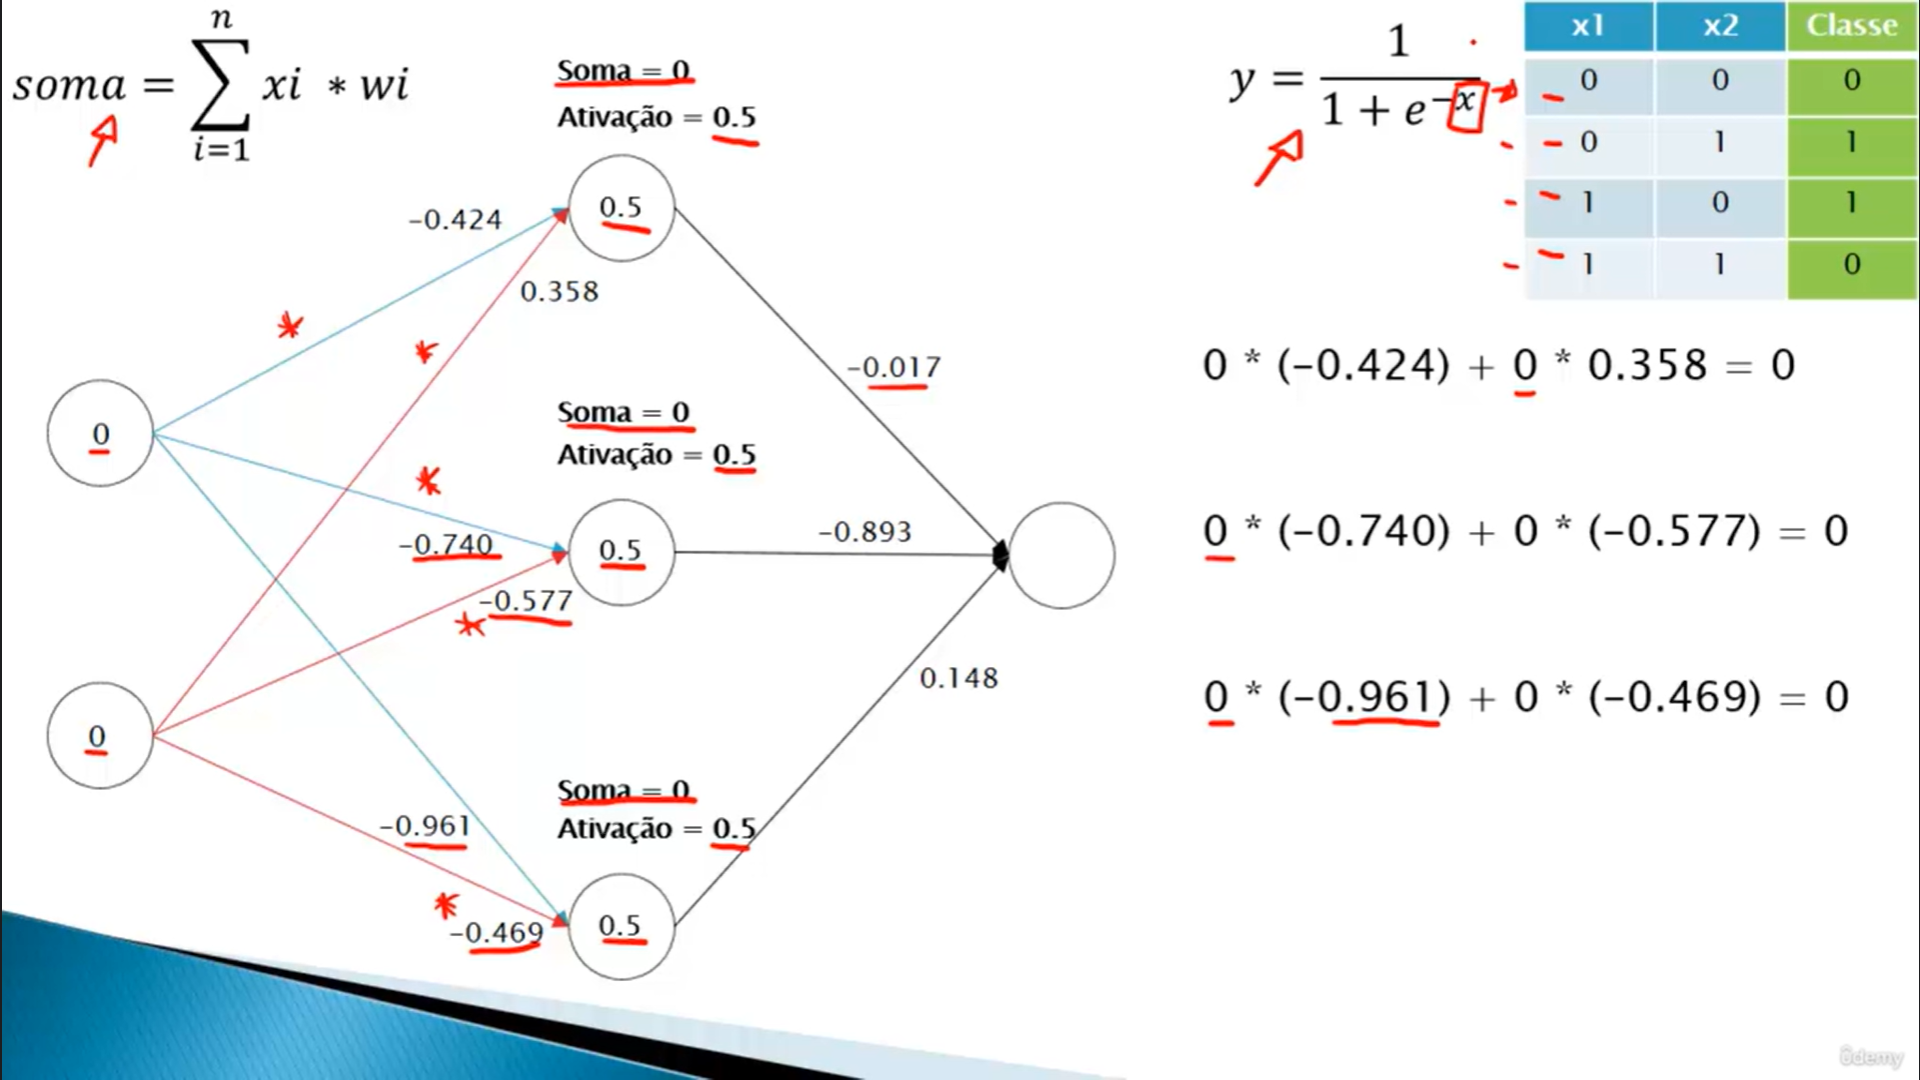
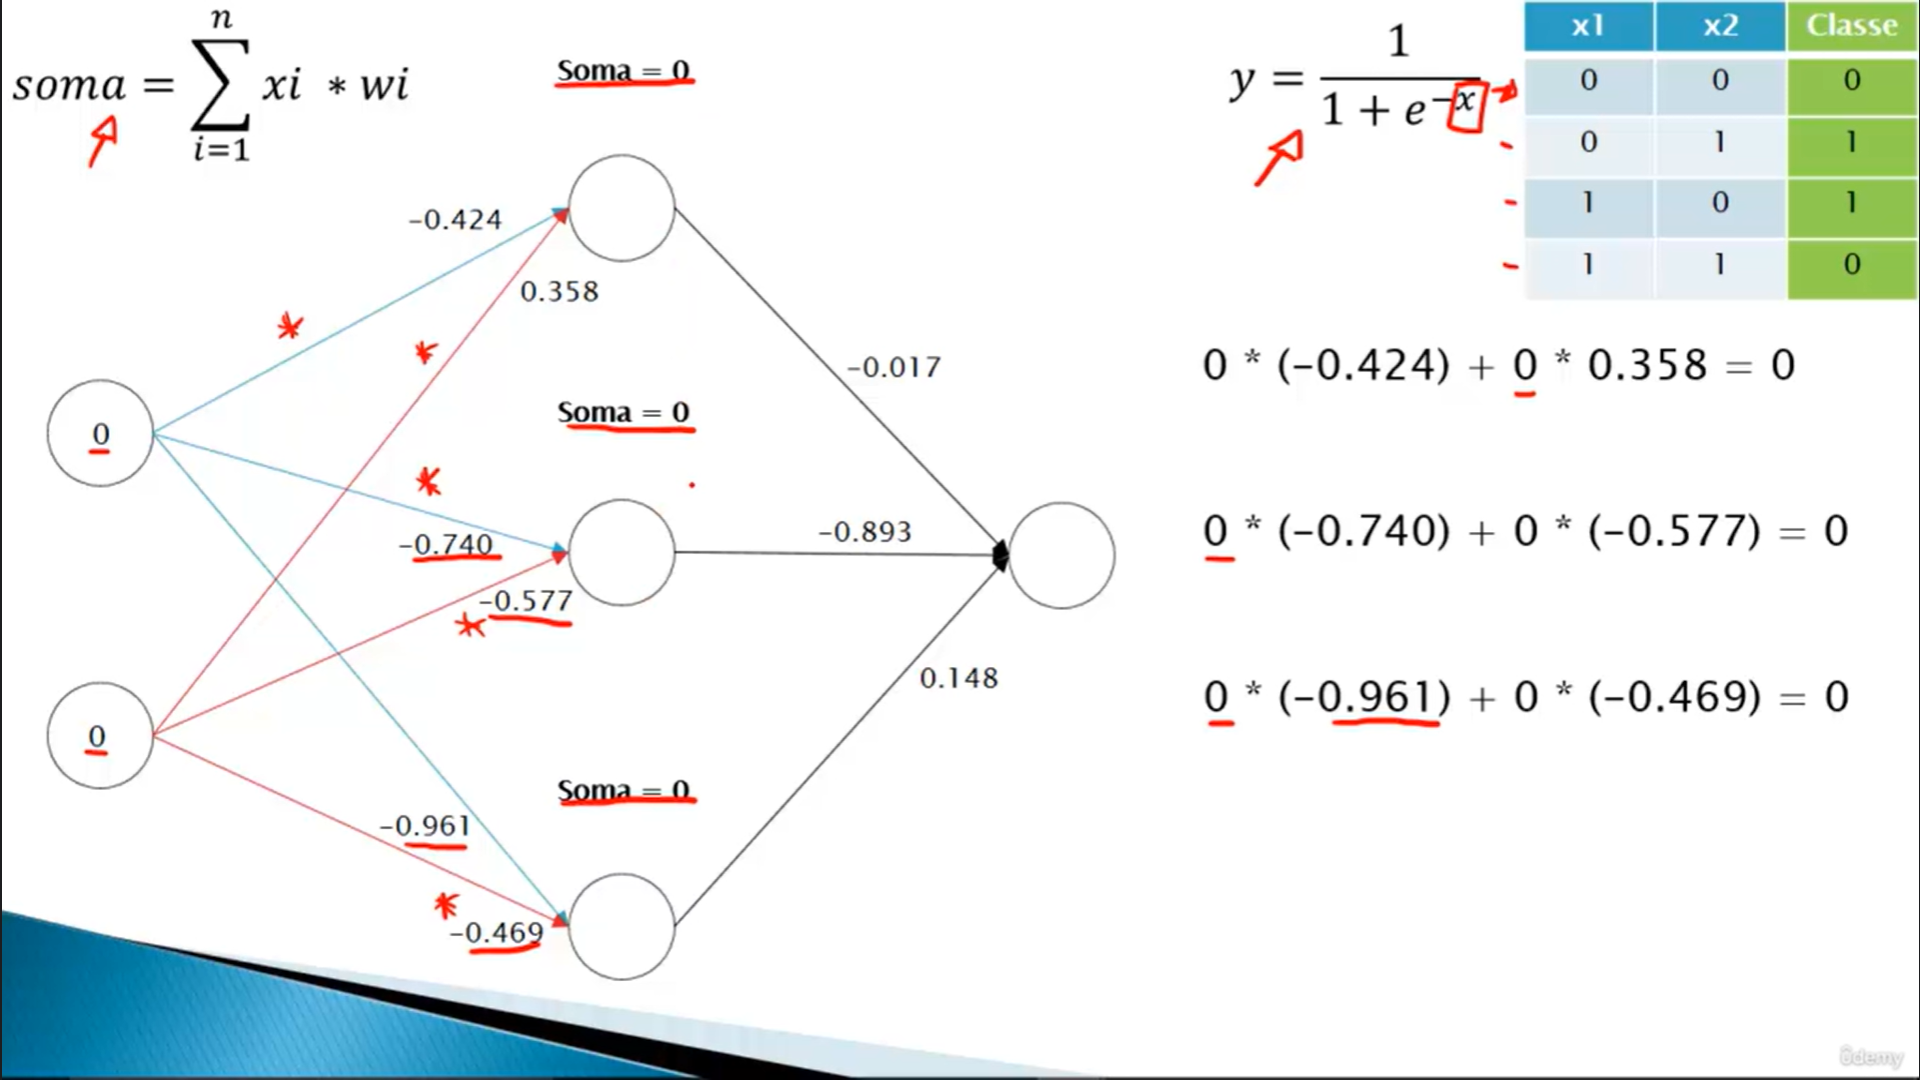
secao_3 aula_24

diff --git a/Section_3__Redes_neurais_multicamada/24__Implementacao_rede_multicamada_I/aula24.py b/Section_3__Redes_neurais_multicamada/24__Implementacao_rede_multicamada_I/aula24.py
@@ -14,5 +14,5 @@ pesos0 = np.array([[-0.424, -0.740, -0.961], [0.358, -0.577, -0.469]])
 pesos1 = np.array([[-0.017, -0.893, -0.148]])
 epocas = 100
 
-for j in range(epocas):
-	...
+# for j in range(epocas):
+# 	...
